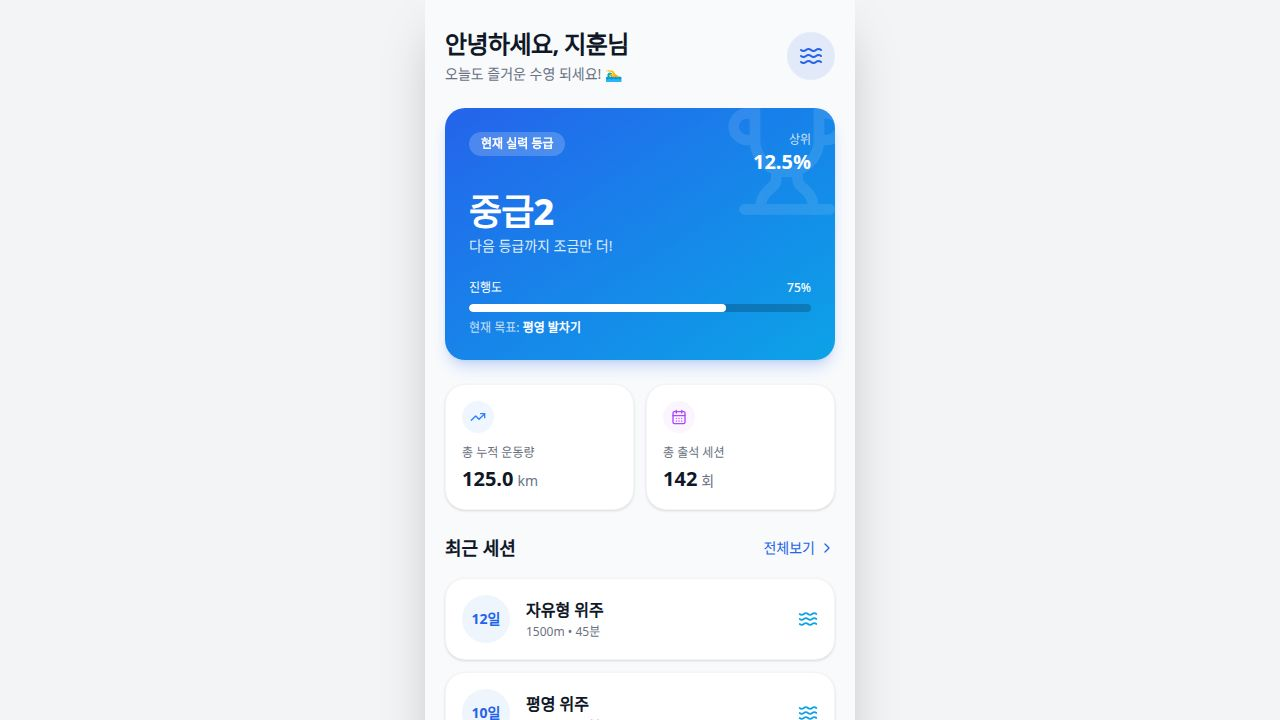
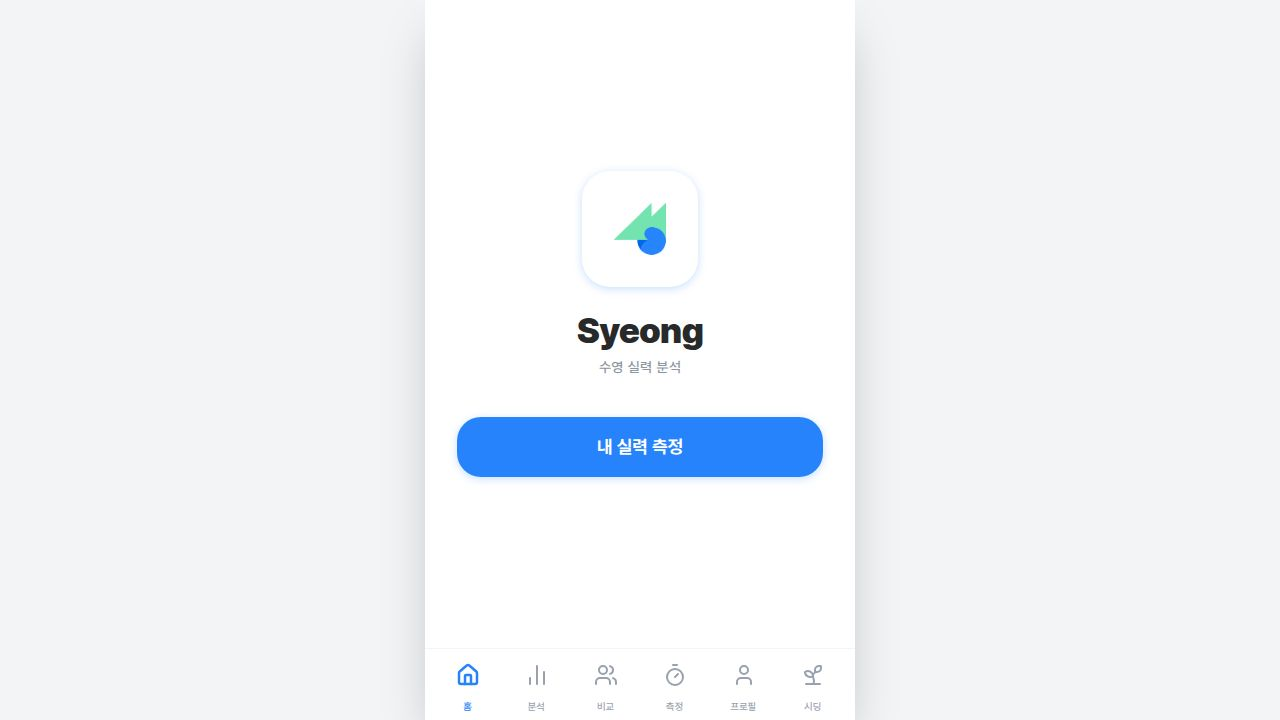
docs: add repo README

diff --git a/README.md b/README.md
@@ -1,0 +1,79 @@
+# Syeong · 수영 실력 분석
+
+모바일 화면 기준의 **수영 실력 분석** 웹앱. 스스로의 진척도를 추적하고 다른 사람들과 비교한다(전국 백분위, 또래 리더보드, 급수 분포). 한국어 UI.
+
+현재는 **프론트엔드 + 목 데이터** 단계이며, 서버는 별도로 개발한다. 화면이 소비할 서버 응답 계약(DTO)은 코드와 문서로 정의돼 있다.
+
+---
+
+## 빠른 시작
+
+```bash
+pnpm install
+
+# 앱 실행 (워크플로우로 구동됨, 포트는 환경이 주입)
+pnpm --filter @workspace/syeong run dev
+
+# 타입체크 / 빌드
+pnpm --filter @workspace/syeong run typecheck
+pnpm run typecheck      # 전체 패키지
+pnpm run build          # 전체 빌드
+```
+
+> 워크스페이스 루트에서 `pnpm dev`를 직접 돌리지 말 것. 앱은 Replit 워크플로우로 구동되며 포트 등 환경변수를 워크플로우가 주입한다.
+
+---
+
+## 스택
+
+- pnpm 워크스페이스(모노레포), Node.js 24, TypeScript 5.9
+- 프론트: React + Vite (`artifacts/syeong`)
+- API(예정): Express 5 + PostgreSQL + Drizzle ORM
+- 검증: Zod (`zod/v4`), API 코드젠: Orval(OpenAPI)
+
+---
+
+## 모노레포 구조
+
+```
+artifacts/
+  syeong/          # 수영 분석 웹앱 (slug: syeong, 경로 /)
+  api-server/      # API 서버 (예정)
+  mockup-sandbox/  # 컴포넌트 프리뷰
+lib/               # 공유 라이브러리
+scripts/           # 유틸 스크립트
+```
+
+### 앱 주요 위치 (`artifacts/syeong/src`)
+
+- `pages/` — Home, Analysis, Compare, Measure, Profile, Result 화면 (wouter 라우트)
+- `components/Layout.tsx` — 중앙 정렬 모바일 프레임 + 하단 탭(홈/분석/비교/측정/프로필/시딩)
+- `components/Logo.tsx` — 브랜드 로고
+- `data/mock.ts` — 모든 목 데이터의 단일 출처
+- `class/engine.ts` — 셩 클래스 급수 분류 엔진 (분류·밴드·승급 진척도 계산)
+- `class/dto.ts` — **서버 응답 계약(DTO)** + 어댑터
+- `theme/tokens.ts` — 브랜드 컬러/그라데이션 토큰
+
+---
+
+## 셩 클래스 (급수 분석)
+
+핵심 기능. **서버는 "측정된 사실값"만 내려주고, 급수 분류·밴드·진척도·카피는 전부 앱이 계산한다.**
+
+- 분류 엔진: `artifacts/syeong/src/class/engine.ts`
+- 응답 계약: `artifacts/syeong/src/class/dto.ts`
+- **서버 응답 명세서: [`artifacts/syeong/docs/class-evaluation-api.md`](artifacts/syeong/docs/class-evaluation-api.md)** ← 서버 구현 시 이 문서 기준
+
+급수: 기초 → 초급 → 중급 → 상급 → 고급 → 연수 → 마스터즈
+영법: 자유형 / 배영 / 평영 / 접영
+
+---
+
+## 컨벤션
+
+- UI에 이모지 금지 (아이콘은 `lucide-react` 사용)
+- 모바일-인-데스크탑: ~430px 고정폭 모바일 프레임을 화면 중앙에 렌더
+- 첨부 이미지는 `@assets/` 별칭으로 import (정적 경로 `attached_assets/` URL 사용 금지)
+- 서버 코드에서 `console.log` 금지 (`req.log` / `logger` 사용)
+
+자세한 워크스페이스 규칙은 `replit.md` 및 `pnpm-workspace` 가이드 참고.